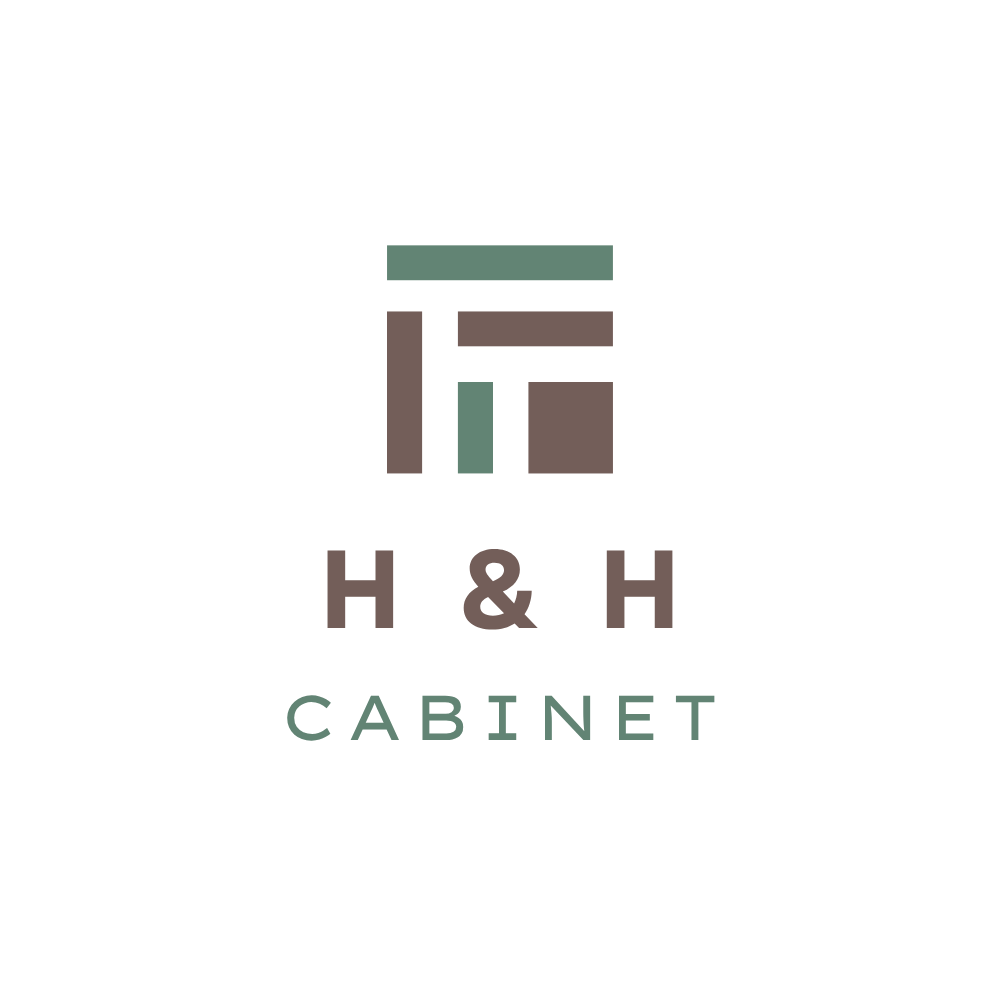
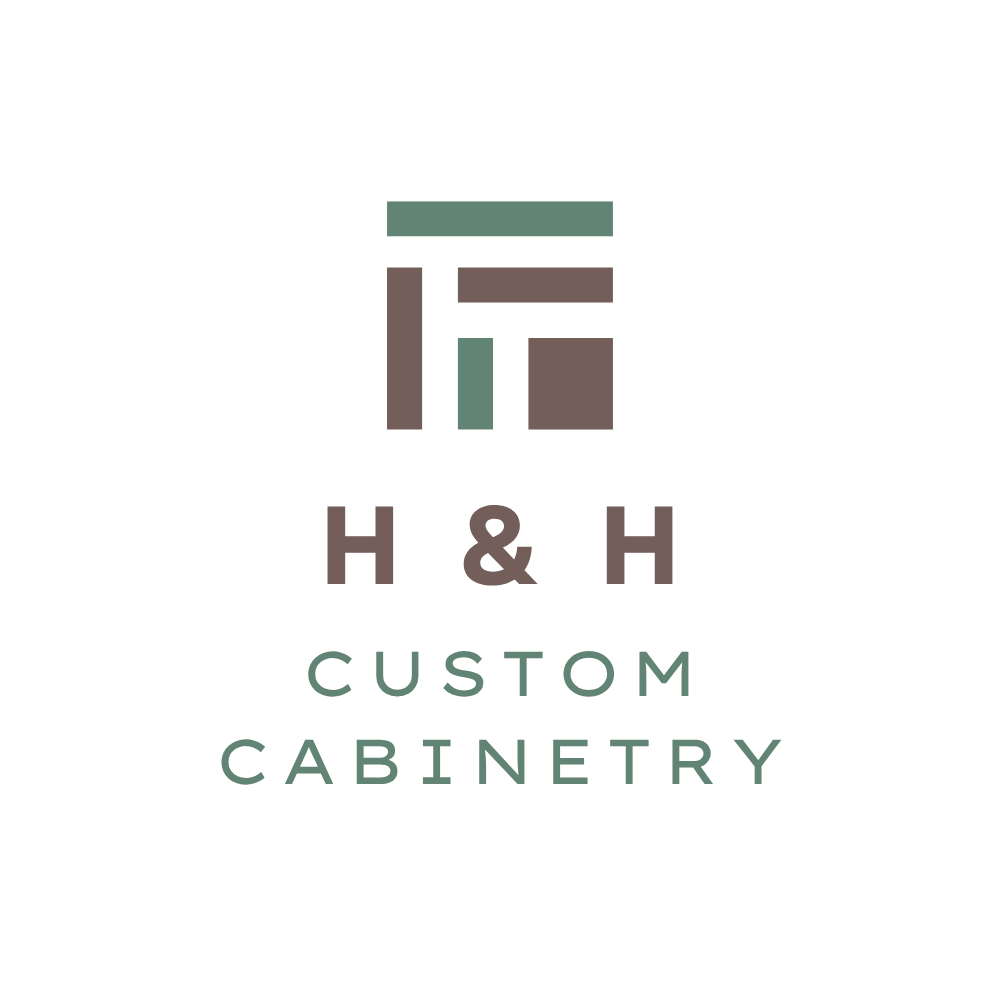
feat: update business identity and contact details

Changed region(s): [[0.217, 0.186, 0.713, 0.806], [0.744, 0.744, 0.775, 0.775]]

diff --git a/src/styles/global.css b/src/styles/global.css
@@ -84,7 +84,7 @@ ul { margin: 0; padding: 0; }
 .announcement a { display: inline-flex; align-items: center; gap: .45rem; text-decoration: none; }
 .nav-wrap { display: flex; min-height: 98px; align-items: center; justify-content: space-between; gap: 2rem; }
 .brand { display: block; flex: 0 0 auto; }
-.brand img { width: 235px; height: auto; }
+.brand img { width: 250px; height: auto; }
 .main-nav { display: flex; align-items: center; gap: clamp(1.2rem, 2.5vw, 2.4rem); }
 .main-nav ul { display: flex; align-items: center; gap: clamp(1rem, 2.2vw, 2rem); list-style: none; }
 .main-nav li a { position: relative; display: block; padding: .8rem 0; font-size: .88rem; font-weight: 500; text-decoration: none; }
@@ -246,7 +246,7 @@ ul { margin: 0; padding: 0; }
   .announcement__inner > span { display: none; }
   .announcement__inner { justify-content: center; }
   .nav-wrap { min-height: 82px; }
-  .brand img { width: 190px; }
+  .brand img { width: 210px; }
   .main-nav { top: 120px; }
   .hero, .hero__inner { min-height: 700px; }
   .hero__proof { display: none; }

diff --git a/src/data/site.ts b/src/data/site.ts
@@ -1,14 +1,14 @@
 export const business = {
-  name: 'H & H Cabinet',
+  name: 'H & H Custom Cabinetry',
   legalName: '9313796 Canada Inc.',
   phone: '647-296-5035',
   phoneHref: 'tel:+16472965035',
-  email: 'info@hhcustomcabinetry.onid.ca',
+  email: 'info@hhcustomcabinetry.ca',
   address: '3218 Wharton Way, Mississauga, ON L4X 2C1',
   mapsUrl: 'https://www.google.com/maps/search/?api=1&query=3218+Wharton+Way+Mississauga+ON+L4X+2C1',
-  quoteUrl: 'https://docs.google.com/forms/d/e/FORM_ID/viewform',
-  bookingUrl: 'https://calendar.google.com/calendar/appointments/schedules/APPOINTMENT_SCHEDULE_ID',
-  siteUrl: 'https://hhcustomcabinetry.onid.ca',
+  quoteUrl: 'https://forms.gle/JT1WhXag7zr2zA6SA',
+  bookingUrl: 'https://calendar.app.google/NGs2aarphHbUTMZJ6',
+  siteUrl: 'https://hhcustomcabinetry.ca',
 };
 
 export const navItems = [
@@ -18,4 +18,3 @@ export const navItems = [
   { href: '/about/', label: 'About' },
   { href: '/contact/', label: 'Contact' },
 ];
-

diff --git a/README.md b/README.md
@@ -1,6 +1,6 @@
-# H & H Cabinet website
+# H & H Custom Cabinetry website
 
-A static Astro website for H & H Cabinet in Mississauga, Ontario. It is designed to deploy directly from a Git repository to Cloudflare Pages.
+A static Astro website for H & H Custom Cabinetry in Mississauga, Ontario. It is designed to deploy directly from a Git repository to Cloudflare Pages.
 
 ## Preview locally
 
@@ -50,12 +50,9 @@ Cloudflare Pages should use:
 - Output directory: `dist`
 - Node.js version: `24`
 
-## Before launch
+## Contact actions
 
-Replace the two placeholder URLs in `src/data/site.ts`:
-
-- `quoteUrl`: the published Google Form URL used by **Get a free quote** and contact actions
-- `bookingUrl`: the published Google Calendar appointment schedule URL
+The Google contact form and Google Calendar booking URL are configured in `src/data/site.ts` as `quoteUrl` and `bookingUrl`.
 
 The business phone, email, address, navigation, and external links are also maintained in this file.
 
